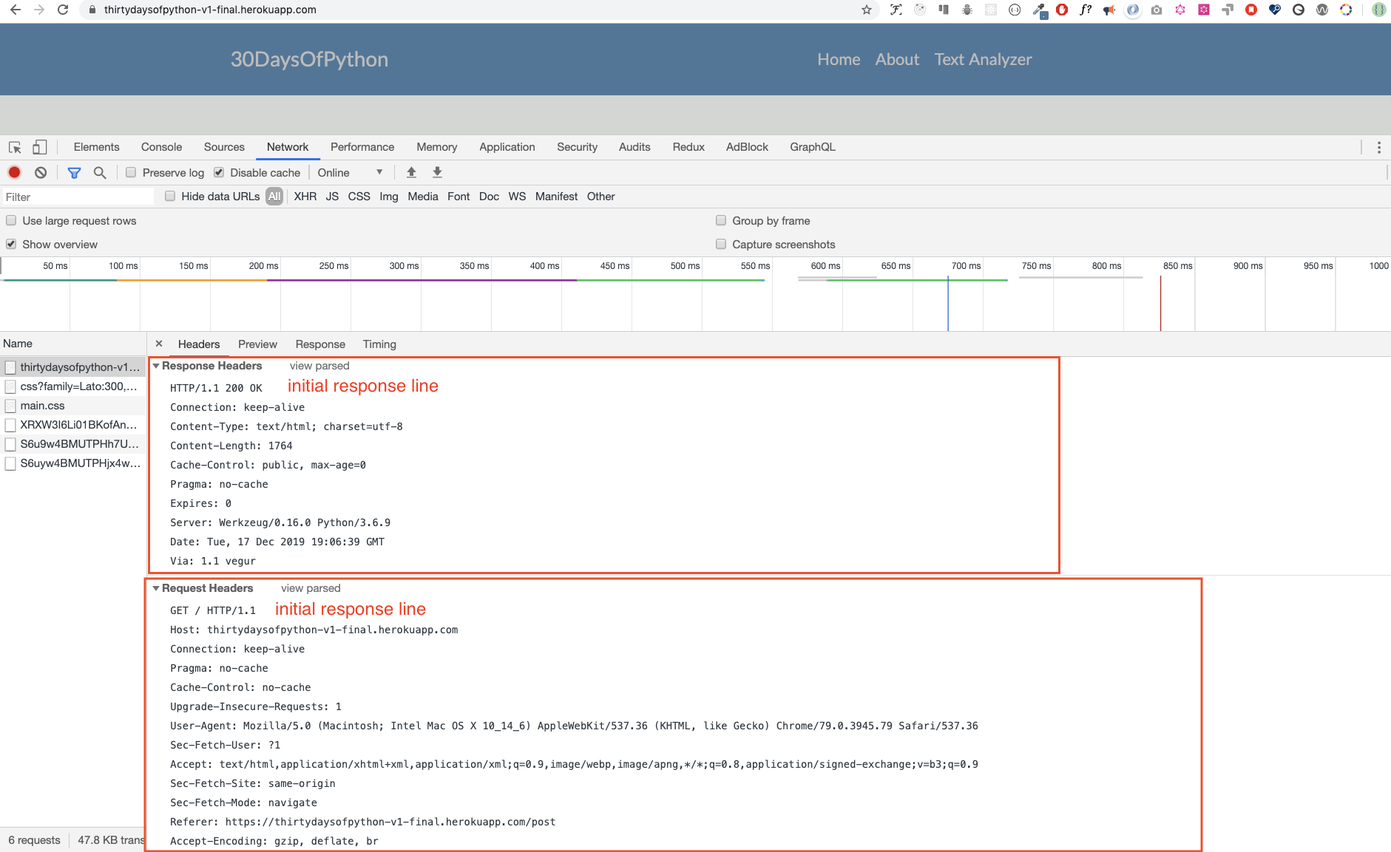
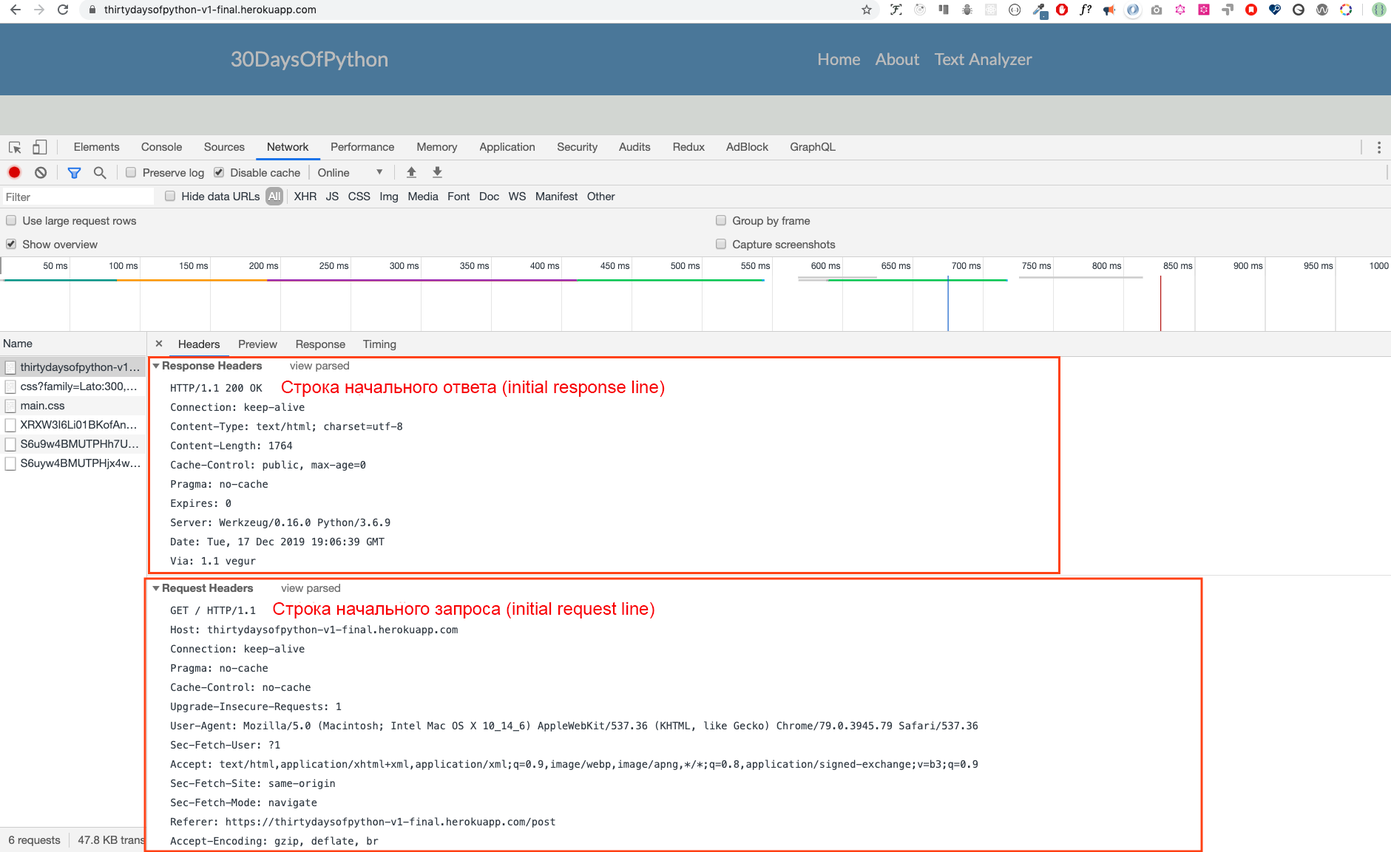
Translation of Day 28 materials into Russian
In this commit, a comprehensive translation of Day 28 content has been completed. This includes all lessons, exercises, and corresponding comments in Python code snippets.

Specific changes include:

Translation of textual content into Russian while preserving the intended technical meanings.
Adaptation of language-specific examples, where necessary, to maintain clarity in the Russian context.
Correction of some typos and errors found in the original text.
The image 'request_response_header.png' has been translated into Russian.

diff --git a/28_Day_API/28_API.md b/28_Day_API/28_API.md
@@ -1,5 +1,5 @@
 <div align="center">
-  <h1> 30 Days Of Python: Day 28 - API </h1>
+  <h1> 30 дней Python: День 28 - API </h1>
   <a class="header-badge" target="_blank" href="https://www.linkedin.com/in/asabeneh/">
   <img src="https://img.shields.io/badge/style--5eba00.svg?label=LinkedIn&logo=linkedin&style=social">
   </a>
@@ -15,105 +15,106 @@
 </div>
 </div>
 
-[<< Day 27](../27_Day_Python_with_mongodb/27_python_with_mongodb.md) | [Day 29 >>](../29_Day_Building_API/29_building_API.md)
+[<< День 27](../27_Day_Python_with_mongodb/27_python_with_mongodb.md) | [День 29 >>](../29_Day_Building_API/29_building_API.md)
 
 ![30DaysOfPython](../images/30DaysOfPython_banner3@2x.png)
 
-- [📘 Day 28](#-day-28)
+- [📘 День 28](#📘-день-28)
 - [Application Programming Interface(API)](#application-programming-interfaceapi)
   - [API](#api)
-  - [Building API](#building-api)
+  - [Построение API](#построение-api)
   - [HTTP(Hypertext Transfer Protocol)](#httphypertext-transfer-protocol)
-  - [Structure of HTTP](#structure-of-http)
-  - [Initial Request Line(Status Line)](#initial-request-linestatus-line)
-    - [Initial Response Line(Status Line)](#initial-response-linestatus-line)
-    - [Header Fields](#header-fields)
-    - [The message body](#the-message-body)
-    - [Request Methods](#request-methods)
-  - [💻 Exercises: Day 28](#-exercises-day-28)
+  - [Структура протокола HTTP](#структура-протокола-http)
+  - [Начальная строка запроса (строка статуса)](#начальная-строка-запроса-строка-статуса)
+    - [Начальная строка ответа (строка статуса)](#начальная-строка-ответа-строка-статуса)
+    - [Поля заголовка](#поля-заголовка)
+    - [Тело сообщения](#тело-сообщения)
+    - [Методы запросов](#методы-запросов)
+  - [💻 Упражнения: День 28](#💻-упражнения-день-28)
 
-# 📘 Day 28
+# 📘 День 28
 
 # Application Programming Interface(API)
 
 ## API
 
-API stands for Application Programming Interface. The kind of API we will cover in this section is going to be Web APIs.
-Web APIs are the defined interfaces through which interactions happen between an enterprise and applications that use its assets, which also is a Service Level Agreement (SLA) to specify the functional provider and expose the service path or URL for its API users.
+API расшифровывается как интерфейс прикладного программирования. Тип API, который мы рассмотрим в этом разделе, - это Web-API.
+Web-API - это определенные интерфейсы, посредством которых происходит взаимодействие между сервером предприятия и приложениями клиента, использующими его ресурсы, что также является соглашением об уровне обслуживания (Service Level Agreement, SLA), определяющим функционального поставщика и предоставляющим пользователям API путь или URL-адрес для доступа к сервису.
 
-In the context of web development, an API is defined as a set of specifications, such as Hypertext Transfer Protocol (HTTP) request messages, along with a definition of the structure of response messages, usually in an XML or a JavaScript Object Notation (JSON) format.
+В контексте веб-разработки, API определяется как набор спецификаций, таких как сообщения запросов по протоколу передачи гипертекста (HTTP), вместе с определением структуры ответных сообщений, обычно в формате XML или JavaScript Object Notation (JSON).
 
-Web API has been moving away from Simple Object Access Protocol (SOAP) based web services and service-oriented architecture (SOA) towards more direct representational state transfer (REST) style web resources.
+Web-API шаг за шагом отходит от веб-сервисов на базе простого объектного доступа к протоколу (Simple Object Access Protocol, SOAP) и архитектуры ориентированной на службы (service-oriented architecture, SOA) в сторону более прямого стиля передачи состояния представления (representational state transfer, REST) и работы с веб-ресурсами.
 
-Social media services, web APIs have allowed web communities to share content and data between communities and different platforms. 
+Благодаря web-API социальные медиа-сервисы позволяют веб-сообществам обмениваться контентом и данными между различными сообществами и платформами.
 
-Using API, content that is created in one place dynamically can be posted and updated to multiple locations on the web.
+С использованием API контент, созданный динамически в одном месте, может быть опубликован и обновлен в нескольких местах в сети Интернет.
 
-For example, Twitter's REST API allows developers to access core Twitter data and the Search API provides methods for developers to interact with Twitter Search and trends data.
+Например, REST API Twitter позволяет разработчикам получать доступ к основным данным Twitter, а Search API предоставляет методы для взаимодействия разработчиков с поиском и данными о трендах в Twitter.
 
-Many applications provide API end points. Some  examples of API such as the countries [API](https://restcountries.eu/rest/v2/all), [cat's breed API](https://api.thecatapi.com/v1/breeds).
+Множество приложений предоставляют конечные точки API. Некоторые примеры API включают [API стран](https://restcountries.eu/rest/v2/all), [API пород кошек](https://api.thecatapi.com/v1/breeds).
 
-In this section, we will cover a RESTful API that uses HTTP request methods to GET, PUT, POST and DELETE data.
+В этом разделе мы рассмотрим RESTful API, который использует методы запросов HTTP для получения (GET), обновления (PUT), создания (POST) и удаления (DELETE) данных.
 
-## Building API
+## Построение API
 
-RESTful API is an application program interface (API) that uses HTTP requests to GET, PUT, POST and DELETE data. In the previous sections, we have learned about python, flask and mongoDB. We will use the knowledge we acquire to develop a RESTful API using Python flask and mongoDB database. Every application which has CRUD(Create, Read, Update, Delete) operation has an API to create data, to get data, to update data or to delete data from a database.
+RESTful API представляет собой интерфейс прикладного программирования (API), который использует HTTP-запросы для выполнения операций GET, PUT, POST и DELETE с данными. В предыдущих разделах мы изучили Python, Flask и базу данных MongoDB. Мы будем использовать полученные знания для разработки RESTful API с использованием Python Flask и базы данных MongoDB. Всякое приложение, которое имеет операции CRUD (Create, Read, Update, Delete), имеет API для создания данных, получения данных, обновления данных или удаления данных из базы данных.
 
-To build an API, it is good to understand HTTP protocol and HTTP request and response cycle.
+Для создания API полезно понимать протокол HTTP и цикл запроса и ответа HTTP.
 
 ## HTTP(Hypertext Transfer Protocol)
 
-HTTP is an established communication protocol between a client and a server. A client in this case is a browser and server is the place where you access data. HTTP is a network protocol used to deliver resources which could be files on the World Wide Web, whether they are HTML files, image files, query results, scripts, or other file types.
+HTTP - это установленный протокол связи между клиентом и сервером. Клиент в данном случае - это браузер, а сервер - это место, где вы получаете доступ к данным. HTTP - это сетевой протокол, используемый для доставки ресурсов, которые могут быть файлами во Всемирной паутине, будь то HTML-файлы, файлы изображений, результаты запросов, скрипты или другие типы файлов.
 
-A browser is an HTTP client because it sends requests to an HTTP server (Web server), which then sends responses back to the client.
+Браузер является HTTP-клиентом, поскольку он отправляет запросы на HTTP-сервер (веб-сервер), который затем отправляет ответы обратно клиенту.
 
-## Structure of HTTP
+## Структура протокола HTTP
 
-HTTP uses client-server model. An HTTP client opens a connection and sends a request message to an HTTP server and the HTTP server returns response message which is the requested resources. When the request response cycle completes the server closes the connection.
+HTTP использует модель клиент-сервер. HTTP-клиент открывает соединение и отправляет сообщение запроса на HTTP-сервер, а HTTP-сервер возвращает ответное сообщение, которое является запрошенными ресурсами. Когда цикл ответа на запрос завершается, сервер закрывает соединение.
 
 ![HTTP request response cycle](../images/http_request_response_cycle.png)
 
-The format of the request and response messages are similar. Both kinds of messages have
+Формат сообщений запроса (Request) и ответа (Response) аналогичен. Оба вида сообщений имеют
 
-- an initial line,
-- zero or more header lines,
-- a blank line (i.e. a CRLF by itself), and
-- an optional message body (e.g. a file, or query data, or query output).
+- начальная строка (initial line),
+- ноль или более строк заголовка (header lines),
+- пустая строка (то есть CRLF),
+- и, при наличии, необязательное тело сообщения (например, файл, данные запроса или результат запроса).
 
-Let us an example of request and response messages by navigating this site:https://thirtydaysofpython-v1-final.herokuapp.com/. This site has been deployed on Heroku free dyno and in some months may not work because of high request. Support this work to make the server run all the time. 
+Давайте рассмотрим пример запроса и ответа при переходе на сайт: https://thirtydaysofpython-v1-final.herokuapp.com/. Обратите внимание, что этот сайт развернут на бесплатном динамическом сервере Heroku, и в некоторых месяцах он может не работать из-за большого количества запросов.
 
 ![Request and Response header](../images/request_response_header.png)
 
-## Initial Request Line(Status Line)
+## Начальная строка запроса (строка статуса)
 
-The initial request line is different from the response.
-A request line has three parts, separated by spaces:
+Начальная строка запроса отличается от начальной строки ответа.
+Начальная строка запроса состоит из трех частей, разделенных пробелами:
 
-- method name(GET, POST, HEAD)
-- path of the requested resource,
-- the version of HTTP being used. eg GET / HTTP/1.1
+- имя метода (GET, POST, HEAD),
+- путь к запрашиваемому ресурсу,
+- версия HTTP, используемая в запросе. Например, GET / HTTP/1.1.
 
-GET is the most common HTTP that helps to get or read resource and POST is a common request method to create resource.
+GET является наиболее распространенным методом HTTP, который используется для получения или чтения ресурса, а POST - распространенный метод запроса для создания ресурса.
 
-### Initial Response Line(Status Line)
+### Начальная строка ответа (строка статуса)
 
-The initial response line, called the status line, also has three parts separated by spaces:
+Начальная строка ответа, называемая строкой состояния (status line), также состоит из трех частей, разделенных пробелами:
 
-- HTTP version
-- Response status code that gives the result of the request, and a reason which describes the status code. Example of status lines are:
+- Версия HTTP
+- код состояния ответа, который указывает результат запроса, и причина, которая описывает код состояния. Примеры строк состояния (status lines) могут быть следующими::
   HTTP/1.0 200 OK
-  or
+  или
   HTTP/1.0 404 Not Found
-  Notes:
 
-The most common status codes are:
-200 OK: The request succeeded, and the resulting resource (e.g. file or script output) is returned in the message body.
-500 Server Error
-A complete list of HTTP status code can be found [here](https://httpstatuses.com/). It can be also found [here](https://httpstatusdogs.com/).
+Примечания:
 
-### Header Fields
+Самые распространенные коды состояния:
+200 OK: Запрос выполнен успешно, и результатирующий ресурс (например, файл или вывод скрипта) возвращается в теле сообщения.
+500 Server Error: Внутренняя ошибка сервера.
+Полный список кодов состояния HTTP можно найти [здесь](https://httpstatuses.com/). Также его можно найти [здесь](https://httpstatusdogs.com/).
 
-As you have seen in the above screenshot, header lines provide information about the request or response, or about the object sent in the message body.
+### Поля заголовка
+
+Как вы видите на приведенном выше скриншоте, строки заголовка (header lines) предоставляют информацию о запросе или ответе, а также об объекте, отправляемом в теле сообщения.
 
 ```sh
 GET / HTTP/1.1
@@ -132,31 +133,31 @@ Accept-Encoding: gzip, deflate, br
 Accept-Language: en-GB,en;q=0.9,fi-FI;q=0.8,fi;q=0.7,en-CA;q=0.6,en-US;q=0.5,fr;q=0.4
 ```
 
-### The message body
+### Тело сообщения
 
-An HTTP message may have a body of data sent after the header lines. In a response, this is where the requested resource is returned to the client (the most common use of the message body), or perhaps explanatory text if there's an error. In a request, this is where user-entered data or uploaded files are sent to the server.
+HTTP-сообщение может иметь тело данных, отправляемое после строк заголовка. В ответе это место, где возвращается запрошенный ресурс клиенту (самое распространенное использование тела сообщения), или, возможно, пояснительный текст в случае ошибки. В запросе это место, куда отправляются пользовательские данные или загруженные файлы на сервер.
 
-If an HTTP message includes a body, there are usually header lines in the message that describe the body. In particular,
+Если в HTTP-сообщении присутствует тело, обычно в сообщении есть строки заголовка, описывающие это тело. В частности,
 
-The Content-Type: header gives the MIME-type of the data in the body(text/html, application/json, text/plain, text/css, image/gif).
-The Content-Length: header gives the number of bytes in the body.
+- Заголовок Content-Type указывает MIME-тип данных в теле сообщения (например, text/html, application/json, text/plain, text/css, image/gif).
+- Заголовок Content-Length указывает количество байтов в теле сообщения.
 
-### Request Methods
+### Методы запросов
 
-The GET, POST, PUT and DELETE are the HTTP request methods which we are going to implement an API or a CRUD operation application.
+В HTTP существуют четыре основных метода запросов, которые мы будем реализовывать в нашем API или приложении для выполнения операций CRUD:
 
-1. GET: GET method is used to retrieve and get information from the given server using a given URI. Requests using GET should only retrieve data and should have no other effect on the data.
+1. GET: Метод GET используется для получения информации с сервера по указанному URI. Запросы с использованием GET должны только извлекать данные и не должны оказывать другого влияния на данные.
 
-2. POST: POST request is used to create data and send data to the server, for example, creating a new post, file upload, etc. using HTML forms.
+2. POST: Метод POST используется для создания данных и отправки их на сервер, например, при создании нового поста, загрузке файлов и т.д., с использованием HTML-форм.
 
-3. PUT: Replaces all current representations of the target resource with the uploaded content and we use it modify or update data.
+3. PUT: Метод PUT используется для замены всех текущих представлений целевого ресурса загруженным содержимым. Он используется для модификации или обновления данных.
 
-4. DELETE: Removes data
+4. DELETE: Метод DELETE используется для удаления данных или ресурсов. Он позволяет удалить указанные данные с сервера.
 
-## 💻 Exercises: Day 28
+## 💻 Упражнения: День 28
 
-1. Read about API and HTTP
+1. Ознакомьтесь с API и HTTP.
 
-🎉 CONGRATULATIONS ! 🎉
+🎉 ПОЗДРАВЛЯЕМ ! 🎉
 
-[<< Day 27](../27_Day_Python_with_mongodb/27_python_with_mongodb.md) | [Day 29 >>](../29_Day_Building_API/29_building_API.md)
+[<< День 27](../27_Day_Python_with_mongodb/27_python_with_mongodb.md) | [День 29 >>](../29_Day_Building_API/29_building_API.md)
